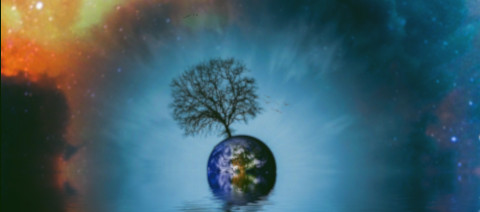
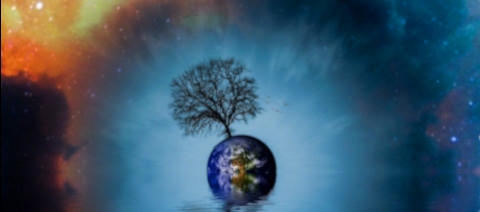
updating images

Changed region(s): [[0.0, 0.4245, 0.125, 1.0], [0.5, 0.6509, 0.5938, 0.934]]

diff --git a/content/css/custom.css b/content/css/custom.css
@@ -61,11 +61,11 @@ ul.feature-icons {
 }
 
 #cta {
-    background-image: url("/reconnect/images/light-tl.svg"), url("/reconnect/images/light-tr.svg"), url("/reconnect/images/overlay2.png"), url("/reconnect/images/banner3.jpg");
+    background-image: url("/reconnect/images/light-tl.svg"), url("/reconnect/images/light-tr.svg"), url("/reconnect/images/overlay2.png"), url("/reconnect/images/banner3a.jpg");
 }
 
 #banner {
-    background-image: url("/reconnect/images/light-bl.svg"), url("/reconnect/images/light-br.svg"), url("/reconnect/images/overlay2.png"), url("/reconnect/images/banner3.jpg");
+    background-image: url("/reconnect/images/light-bl.svg"), url("/reconnect/images/light-br.svg"), url("/reconnect/images/overlay2.png"), url("/reconnect/images/banner5.jpg");
 }
 
 .wrapper.style2 {
